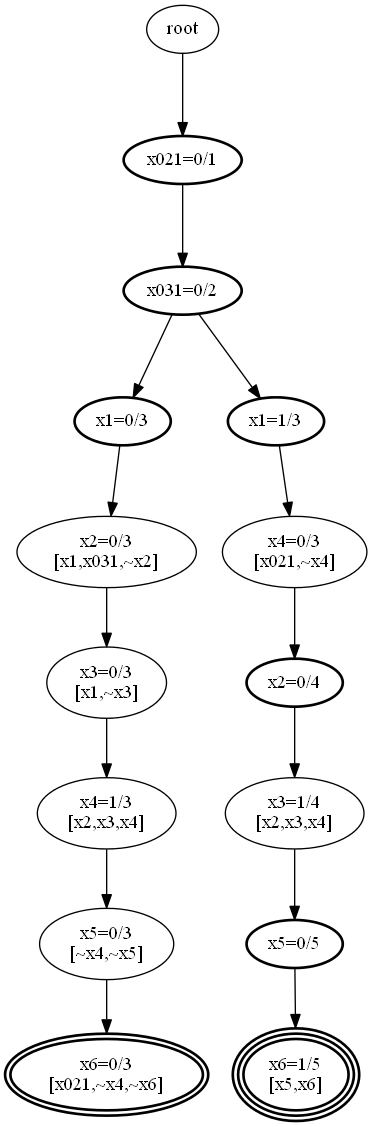
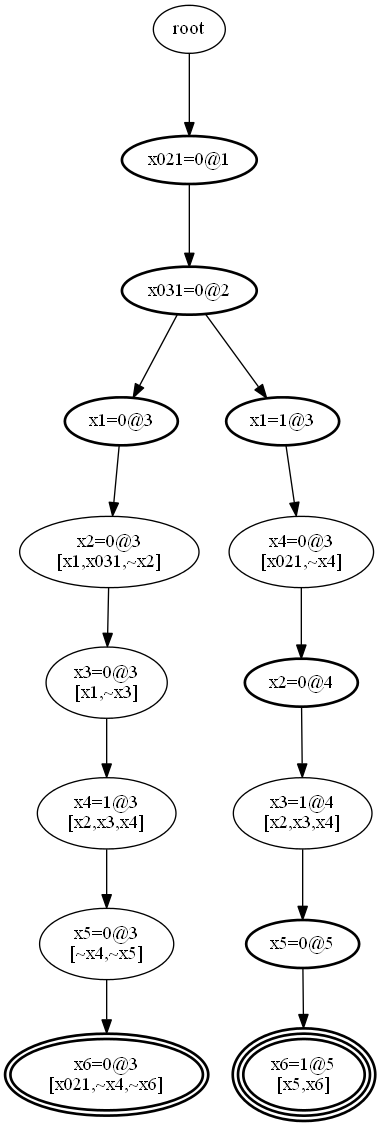
Version 1.4.3 and tutorial 1.3 interim commit

diff --git a/learnsat/dist/learnsat-release.html b/learnsat/dist/learnsat-release.html
@@ -7,6 +7,11 @@
 <BODY>
 <CENTER><font size=+1><b>LearnSAT - Release Notes</font></b></CENTER>
 
+<p><b>Version 1.4.2 (10.05.2013)</b><br>
+&nbsp; Fix bug: finding edges of the cut.<br>
+&nbsp; Fix bug: If the dominator is a decision node, it can't be skipped.<br>
+&nbsp; Display of level in tree changed to '@'.
+
 <p><b>Version 1.4.2 (09.05.2013)</b><br>
 &nbsp; Enable changing decorate mode dynamically.<br>
 &nbsp; Fix bug: invalid mode was still changing the mode.

diff --git a/learnsat/docs/learnsat-tutorial.tex b/learnsat/docs/learnsat-tutorial.tex
@@ -1000,6 +1000,79 @@ previous decision assignment. The assignment \p{p13=1@3} instead of
 \caption{Implication graph for the four-queens}\label{queens-ig}
 \end{figure}
 
+
+\chapter{Tseitin graph formulas}\label{ch.tseitin}
+
+G.S. Tseitin used formulas associated with graphs in his research on the
+complexity of resolution.\footnote{See \cite[Section 4.5]{mlcs} for a
+formal presentation of Tseitin formulas.} Consider the following
+connected, undirected graph whose vertices are labeled with 0 or 1 and
+whose edges are labeled with letters:
+
+\begin{center}
+\unitlength=1.0pt
+\begin{picture}(100,100)
+\put(10,10){\framebox(80,80){\ }}
+\put(10,10){\line(1,1){80}}
+\put(0,0){\makebox(10,10){$0$}}
+\put(45,0){\makebox(10,10)[b]{$t$}}
+\put(90,0){\makebox(10,10){$0$}}
+\put(0,45){\makebox(10,10)[l]{$q$}}
+\put(40,45){\makebox(10,10)[l]{$r$}}
+\put(90,45){\makebox(10,10)[r]{$s$}}
+\put(0,90){\makebox(10,10){$0$}}
+\put(45,90){\makebox(10,10)[t]{$p$}}
+\put(90,90){\makebox(10,10){$1$}}
+\end{picture}
+\end{center}
+
+The formula associated with this graph is defined as follows: for
+each vertices, construct the set of clauses whose atoms are the letters
+labeling the incident edges, such that the parity (sum modulo 2) of the
+number of negated literals is not equal to the label of the vertex:
+
+\begin{verbatim}
+[~p, q], [p, ~q],
+[p, r, s], [~p, ~r, s], [~p, r, ~s], [p, ~r, ~s],
+[~s, t], [s, ~t],
+[~q, r, t], [q, ~r, t], [q, r, ~t], [~q, ~r, ~t]
+\end{verbatim}
+
+For example, since $\{p, r, s\}$ are incident with a vertex labeled 1,
+the number of negated literals has to be 0 or 2. If the number of
+vertices labeled 1 is odd, the formula is unsatisfiable.
+
+\newpage
+
+Let us look at the implication graph:
+
+\begin{center}
+\includegraphics[keepaspectratio=true,width=\textwidth]{tseitin-ex-bw}
+\end{center}
+
+The only dominator of the highest-level decision node \verb+r=0@2+ is
+the decision node itself. Since it is not implied by other decision
+node, we cannot skip it in backtracking and the assignment \verb+r=1@2+
+will have to be tried.
+
+Another anomaly of this example is that the clause that would be learned
+from the dominator is not the same as the one learned by resolution. The
+former is \verb+[p,r]+, which is the complement of the dominator
+decision node \verb+r=0@2+ and the decision node at a lower level
+\verb+p=0@1+. The clause learned by resolution is obtained as follows:
+
+\begin{verbatim}
+Conflict clause: 11. [q,r,~t]
+Resolvent: of [q,r,~t] and antecedent [~s,t] is [q,r,~s]
+Resolvent: of [q,r,~s] and antecedent [p,r,s] is [q,p,r]
+UIP: one literal r is assigned at level: 2
+Learned clause from resolution: [q,p,r]
+\end{verbatim}
+
+This is a weaker clause than that defined by the dominator.
+
+\chapter{Pebblings}\label{ch.pebbling}
+
 \bibliographystyle{plain}
 \bibliography{learnsat}
 \end{document}
